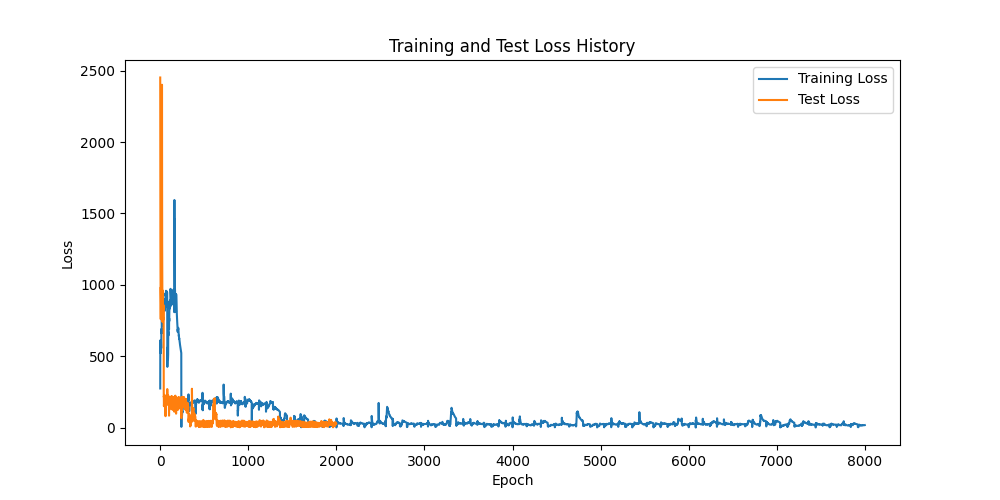
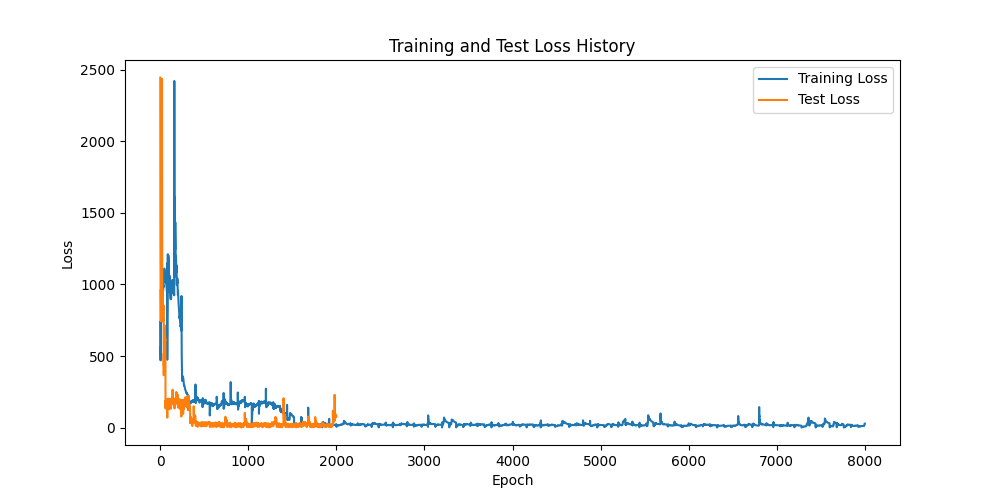
updated the preprocess.y file.

diff --git a/src/preprocess.py b/src/preprocess.py
@@ -66,6 +66,7 @@ def train(model, loss_fn, optimizer, train_loader, test_loader, num_epochs, phys
 
     train_loss_history = []
     test_loss_history = []
+    r2_mean = 0
 
     for epoch in range(num_epochs):
         model.train()
@@ -92,6 +93,7 @@ def train(model, loss_fn, optimizer, train_loader, test_loader, num_epochs, phys
         model.eval()
         test_loss = 0.0
         r2_scores = []
+        
         with torch.no_grad():
             for i, (heatmaps, pde_solutions) in enumerate(test_loader):
                 heatmaps = heatmaps.to(device)
@@ -108,8 +110,10 @@ def train(model, loss_fn, optimizer, train_loader, test_loader, num_epochs, phys
                 test_loss_history.append(test_epoch_loss)
                 mean_r2_score = sum(r2_scores) / len(r2_scores)
                 print(f"Test Loss: {test_epoch_loss:.4f}, R-squared Score: {mean_r2_score:.4f}")
+                r2_mean += mean_r2_score
+    
 
-    return train_loss_history, test_loss_history
+    return train_loss_history, test_loss_history, r2_mean
 
 
 def r2_score(y_true, y_pred):
@@ -136,5 +140,46 @@ def plot_loss(train_loss_history, test_loss_history, save=False, save_path=r'gra
             os.makedirs(directory)
 
         plt.savefig(save_path)
+
+    plt.show()
+
+
+def train_and_evaluate(model, loss_fn, optimizer, num_epochs, physics_loss_coefficient):
+    # Create and initialize your model, loss function, and optimizer
+    # ...
+
+    # Train the model and get the mean R-squared Score
+    _, _, mean_r2_score = train(model, loss_fn, optimizer, train_loader, test_loader, num_epochs, physics_loss_coefficient)
+
+    return mean_r2_score
+
+def plot_r2_vs_physics_loss_coefficients(physics_loss_coefficients, train_and_evaluate):
+    r2_scores = []
+
+    for coeff in physics_loss_coefficients:
+        r2 = train_and_evaluate(physics_loss_coefficient=coeff)
+        r2_scores.append(r2)
+
+    plt.plot(physics_loss_coefficients, r2_scores, marker='o')
+    plt.xlabel('Physics Loss Coefficient')
+    plt.ylabel('R-squared Score')
+    plt.title('R-squared Score vs. Physics Loss Coefficient')
+    plt.grid()
+    plt.show()
+
+def compare_solutions(predicted_solution, original_solution, error, time_index):
+    plt.figure(figsize=(18, 6))
+
+    plt.subplot(1, 3, 1)
+    plt.title("Predicted Solution")
+    plt.imshow(predicted_solution[time_index].detach().cpu().numpy(), cmap='viridis', origin='lower')  # Add .cpu().numpy()
+
+    plt.subplot(1, 3, 2)
+    plt.title("Original Solution")
+    plt.imshow(original_solution[time_index].detach().cpu().numpy(), cmap='viridis', origin='lower')  # Add .cpu().numpy()
+
+    plt.subplot(1, 3, 3)
+    plt.title("Error")
+    plt.imshow(error[time_index].detach().cpu().numpy(), cmap='viridis', origin='lower')  # Add .cpu().numpy()
 
     plt.show()

diff --git a/src/PINO_2D_Heat_Equation.py b/src/PINO_2D_Heat_Equation.py
@@ -23,12 +23,16 @@ class PINO_2D_Heat_Equation(nn.Module):
 
 
 if __name__ == "__main__":
+
+    device = torch.device("cuda:0" if torch.cuda.is_available() else "cpu")
+
     # Replace these paths with the correct ones for your dataset
     heatmap_folder = r"images\heatmaps"
     pde_solution_folder = r"images\pde_solutions"
 
     # Initilise PINO 2D Heat Equation Model
     model = PINO_2D_Heat_Equation()
+    model.to(device)
 
     # Load training and test data
     data = HeatmapPDEDataset(heatmap_folder, pde_solution_folder)
@@ -38,12 +42,35 @@ if __name__ == "__main__":
 
     # Set hyperparameters
     num_epochs = 100  # options: 100, 250, 500
-    physics_loss_coefficient = 5  # options: 0.01, 0.1, 1.0, 3.0, 5.0
+    physics_loss_coefficient = 0.001  # options: 0.01, 0.1, 1.0, 3.0, 5.0
     optimizer = optim.SGD(model.parameters(), lr=0.001)
     loss_fn = loss_function
 
-    train_loss_history, test_loss_history = train(model=model, loss_fn=loss_fn, optimizer=optimizer,
+    train_loss_history, test_loss_history, mean_r2_score = train(model=model, loss_fn=loss_fn, optimizer=optimizer,
                                                   train_loader=train_loader, test_loader=test_loader,
                                                   num_epochs=num_epochs, physics_loss_coefficient=physics_loss_coefficient)
     plot_loss(train_loss_history, test_loss_history, save=True, save_path=r'graphs\train_test-phyloss-01.png')
+
+# Assuming predicted_solution and original_solution are NumPy arrays with the shape (num_time_steps, height, width)
+
+    time_index = 0  # Choose the time step you want to analyze
+
+    heatmaps_test, labels_test = next(iter(test_loader))
+    heatmaps_test = heatmaps_test.to(device)
+    labels_test = labels_test.to(device)
+    error = torch.abs(heatmaps_test - labels_test)
+
+    # Get the model predictions for the test data
+    predictions_test = model(heatmaps_test)
+
+    # Convert tensors to numpy arrays for plotting
+    heatmaps_test_np = heatmaps_test.detach().cpu().numpy()
+    labels_test_np = labels_test.detach().cpu().numpy()
+    predictions_test_np = predictions_test.detach().cpu().numpy()
+    error_np = error.detach().cpu().numpy()
+
+    compare_solutions(predictions_test, predictions_test, error_np, time_index)
+
+    physics_loss_coefficients = [0.001, 0.01, 0.1, 1.0, 3.0]
+    plot_r2_vs_physics_loss_coefficients(physics_loss_coefficients, train_and_evaluate)
 
